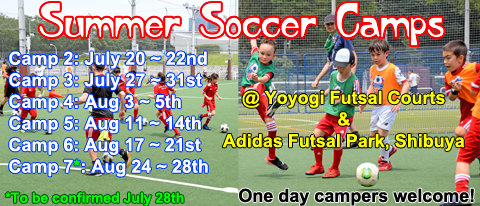
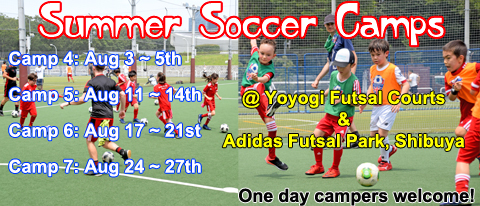
Final Camp
Confirmed

Changed region(s): [[0.0, 0.233, 0.4375, 0.8738], [0.0, 0.932, 0.4062, 1.0]]

diff --git a/j/pages/camp.html b/j/pages/camp.html
@@ -80,37 +80,37 @@
 													注：単日でのご参加も可能ですが、フルスケジュールでご参加のお子様を優先して受け付けさせて頂いております。<br>
 													<br>
 													お申込は：<a class="content" href="campreg.html"><b>SIGN UP ONLINE HERE</b></a></p>
-												<p><font color="#ff3300">注：キャンプ７については、会場が確定次第決定となります。（会場は１ヶ月前の予約受付の為、現時点では予定日程となります）</font><br>
-												</p>
 												<p><b>キャンプ 3: </b>7月27日 (月) − 7月31日（金）5日間 @ <b>代々木フットサル競技場　</b>(<a class="content" href="#map-Yoyogi">地図</a>)</p>
 												<ol>
-													<li>5〜8歳対象: 午前9:10 ~ 午後10：50 (100分間) BFAメンバー1日5,000 / BFAメンバー以外1日6,000<li>9〜12歳対象: 午前9:10 ~ 午後11：50 (2時40分間) BFAメンバー1日7,000 / BFAメンバー以外1日8,000
+													<li>5〜8歳対象: 午前9:10 ~ 午後10：50 (100分間) BFAメンバー1日5,000 / BFAメンバー以外1日6,000
+													<li>9〜12歳対象: 午前9:10 ~ 午後11：50 (2時40分間) BFAメンバー1日7,000 / BFAメンバー以外1日8,000
 												</ol>
 												<p><b>キャンプ 4: </b>8月３日 (月) − 8月５日（水）3日間 @ <b>アディダスフットサルパーク渋谷　</b>(<a class="content" href="#map-Adidas">地図</a>)</p>
 												<ol>
 													<li>9〜12歳対象: 午前10:00 ~ 午後12:00 (2時間) BFAメンバー1日7,000 / BFAメンバー以外1日8,000
-												
 												</ol>
 												<p><b>キャンプ 5: </b>8月11日 (火) − 8月14日（金）4日間<font color="#ff3300"> </font></p>
 												<ol>
-													<li>5〜8歳対象: 午前10:00 ~ 午後11：30 (90分間) @ <b>アディダスフットサルパーク渋谷　</b>(<a class="content" href="#map-Adidas">地図</a>) <br>
+													<li>5〜8歳対象: 午前10:00 ~ 午後11：30 (90分間) @ <b>アディダスフットサルパーク渋谷　</b>(<a class="content" href="#map-Adidas">地図</a>)<br>
 														BFAメンバー1日6,000 / BFAメンバー以外1日7,000
 													<li>9〜12歳対象: 午前09:00 ~ 午後12：00 (3時間)@ <b>代々木フットサル競技場　</b>(<a class="content" href="#map-Yoyogi">地図</a>)<br>
-														 BFAメンバー1日9,000 / BFAメンバー以外1日10,000
+														BFAメンバー1日9,000 / BFAメンバー以外1日10,000
 												</ol>
 												<p><b>キャンプ 6:</b></p>
 												<ol>
-													<li><b> </b>8月17日 (月) − 8月19日（水）3日間 <br>5〜8歳対象: 午前10:00 ~ 午後11：30 (90分間) @ <b>アディダスフットサルパーク渋谷　</b>(<a class="content" href="#map-Adidas">地図</a>)<br>
+													<li><b></b>8月17日 (月) − 8月19日（水）3日間<br>
+														5〜8歳対象: 午前10:00 ~ 午後11：30 (90分間) @ <b>アディダスフットサルパーク渋谷　</b>(<a class="content" href="#map-Adidas">地図</a>)<br>
 														BFAメンバー1日6,000 / BFAメンバー以外1日7,000<br>
 														<br>
-													
-													
-													<li>8月17日 (月) − 8月19日（水）及び 8月21日（金）4日間 <font color="#ff3300"> *20日 (木) は会場休館日の為、開催しません。</font><br>
-														
+													<li>8月17日 (月) − 8月19日（水）及び 8月21日（金）4日間 <font color="#ff3300">*20日 (木) は会場休館日の為、開催しません。</font><br>
 														9〜12歳対象: 午前09:00 ~ 午後12：00 (3時間) @ <b>代々木フットサル競技場　</b>(<a class="content" href="#map-Yoyogi">地図</a>)<br>
-														 BFAメンバー1日9,000 / BFAメンバー以外1日10,000
-													</ol>
-												<p><b>キャンプ 7: </b>8月24日 (月) − 8月28日（金）５日間 <font color="#ff3300">開催予定</font></p>
+														BFAメンバー1日9,000 / BFAメンバー以外1日10,000
+												</ol>
+												<p><b>キャンプ 7: </b>8月24日 (月) − 8月27日（木）4日間 @ <b>代々木フットサル競技場　</b>(<a class="content" href="#map-Yoyogi">地図</a>) </p>
+												<ol>
+													<li>5〜8歳対象: 午前09:00 ~ 午後11：00 (2時間) BFAメンバー1日7,000 / BFAメンバー以外1日8,000
+													<li>9〜12歳対象: 午前09:00 ~ 午後12：00 (3時間) BFAメンバー1日9,000 / BFAメンバー以外1日10,000 
+												</ol>
 												<p></p>
 												<p><img src="../../images/photos/CampVenues2020.jpg" alt="BST camp" height="389" width="648" border="0"></p>
 												<table width="100%" border="1" cellspacing="2" cellpadding="0" bgcolor="yellow">
@@ -146,8 +146,10 @@
 												<p><img src="../../images/photos/2020camp_cert.jpg" alt="lions" height="154" width="100" align="right" hspace="3"><b>ご参加にあたって </b></p>
 												<ul>
 													<li>サッカーがしやすいスポーツウェアを着用してください。
-													<li>サッカーブーツは、金属スパイクではないサッカーブーツまたは運動靴をご着用下さい。6歳から8歳のお子様は、運動靴でも大丈夫ですが、滑りにくいものが適しています。<li>スネあては必須です。
-													<li>雨天の場合も決行しますが、暴雨風・雷の場合は中止となり、参加費の返金はありませんので予めご了承ください。<li>飲料水又はスポーツドリンクを大目にご用意ください。
+													<li>サッカーブーツは、金属スパイクではないサッカーブーツまたは運動靴をご着用下さい。6歳から8歳のお子様は、運動靴でも大丈夫ですが、滑りにくいものが適しています。
+													<li>スネあては必須です。
+													<li>雨天の場合も決行しますが、暴雨風・雷の場合は中止となり、参加費の返金はありませんので予めご了承ください。
+													<li>飲料水又はスポーツドリンクを大目にご用意ください。
 												</ul>
 												<h4><b class="red">ご参加頂いた方には、キャンプ終了認定書を差し上げます。<br>
 													</b></h4>
@@ -166,7 +168,8 @@
 														注２： サマーキャンプセッションは、雷、暴風雨などの悪天候以外は、雨天決行となります。つきましては、悪天候によるセッションのキャンセル、および、お客様のご事情による欠席における料金の返金は致し兼ねますのでご了承の程お願い申し上げます。<br>
 														注３：キャンセルについて：次の場合は、キャンセル料を頂きます： キャンプ週開始日2日前までキャンセル：料金100％、キャンプ週開始日3日から7日前までのキャンセル：料金50％</span></p>
 												<p><a id="map-Yoyogi" name="map-Yoyogi"></a>
-													<iframe src="https://www.google.com/maps/embed?pb=!1m18!1m12!1m3!1d1620.6880936715058!2d139.6970804759195!3d35.667738095025086!2m3!1f0!2f0!3f0!3m2!1i1024!2i768!4f13.1!3m3!1m2!1s0x60188cae28002e85%3A0xa4ac94c5148ddc6d!2sYoyogi%20Park%20Futsal%20Court!5e0!3m2!1sen!2sjp!4v1593398672746!5m2!1sen!2sjp" width="640" height="510" frameborder="0" style="border:0;" allowfullscreen="" aria-hidden="false" tabindex="0"></iframe><br>
+													<iframe src="https://www.google.com/maps/embed?pb=!1m18!1m12!1m3!1d1620.6880936715058!2d139.6970804759195!3d35.667738095025086!2m3!1f0!2f0!3f0!3m2!1i1024!2i768!4f13.1!3m3!1m2!1s0x60188cae28002e85%3A0xa4ac94c5148ddc6d!2sYoyogi%20Park%20Futsal%20Court!5e0!3m2!1sen!2sjp!4v1593398672746!5m2!1sen!2sjp" width="640" height="510" frameborder="0" style="border:0;" allowfullscreen="" aria-hidden="false" tabindex="0"></iframe>
+													<br>
 													<br>
 													<br>
 													<a id="map-Adidas" name="map-Adidas"></a>

diff --git a/e/pages/camp.html b/e/pages/camp.html
@@ -86,7 +86,7 @@
 													</b>All 5-12 year olds are welcome to join our age-specific summer soccer camps at<b class="red"> </b><a class="content" href="https://www.jpnsport.go.jp/yoyogi/sisetu/tabid/222/Default.aspx" target="_blank">Yoyogi Futsal Courts</a><b class="red">.</b> Let our <b>English FA qualified, British coaches</b> enthral, entertain and educate your young ones with their wealth of knowledge and lively, energetic characters. We encourage participants to enrol for the full 3 to 5 action-packed-days of football games and fun, but <b class="red">do accept players on a per-day basis*</b>. All children will be presented with an <b>official BFA  certificate of achievement.</b><b class="red"><br>
 													</b><b><span class="highlight">REGISTER <a class="content" href="campreg.html">ON-LINE HERE</a></span></b><br>
 													<span>* <i>Please note that we will prioritise campers who sign up for the full camp, and accept per-day basis campers where spaces are available</i>.</span></p>
-												<p><b class="red"><span class="highlight">Please note, NOT ALL CAMPS ARE SAME LENGTH, TIME or VENUE &amp; some August camps are still pending confirmation by the venue.</span></b></p>
+												<p><b class="red"><span class="highlight">Please note, NOT ALL CAMPS ARE SAME LENGTH, TIME or VENUE.</span></b></p>
 												<p><b>Dates, Venues &amp; Prices per day:</b></p>
 												<p><b>CAMP 3:</b> July 27th (Mon) - 31st (Fri) - 5 day camp @ Yoyogi Futsal Courts (<a class="content" href="#map-Yoyogi">MAP</a>)<br>
 												</p>
@@ -119,13 +119,19 @@
 													
 													
 													<li>August 17th (Mon) - 19th (Wed) &amp; 21st (Fri) - <span class="highlight"><b>4 day camp (NO Thur 20th, venue closed)</b></span><br>
-														<b>Ages 9 ~ 12 (Academy &amp; Stars)</b>, Time: 9:00 am ~ 12:00 am (3 hours  @ Yoyogi Futsal Courts (<a class="content" href="#map-Yoyogi">MAP</a>)<br>
+														<b>Ages 9 ~ 12 (Academy &amp; Stars)</b>, Time: 9:00 am ~ 12:00 am (3 hours) @ Yoyogi Futsal Courts (<a class="content" href="#map-Yoyogi">MAP</a>)<br>
 														BFA Members: ¥9,000 <i class="navy">Non BFA Members</i>: ¥10,000<br>
 													
 												</ol>
-												<p><b>CAMP 7:</b> August 24th (Mon) - 28th (Fri) - 5 day camp <b class="red">- To be confirmed July 28th</b><br>
+												<p><b>CAMP 7:</b> August 24th (Mon) - 27th (Thur) - 4 day camp @ Yoyogi Futsal Courts (<a class="content" href="#map-Yoyogi">MAP</a>)<br>
 												</p>
-												
+												<ol>
+													<li><b>Ages 5 ~ 8 (Bulldogs &amp; Lions)</b>, Time: 9:00 am ~ 11:00 am (2 hours) BFA Members: ¥7,000 <i class="navy">Non BFA Members</i>: ¥8,000<br>
+													<li><b>Ages 9 ~ 12 (Academy &amp; Stars)</b>, Time: 9:00 am ~ 12:00 pm (3 hours) BFA Members: ¥9,000 <i class="navy">Non BFA Members</i>: ¥10,000<br>
+													
+												</ol>
+												<p><br>
+												</p>
 												<p><img src="../../images/photos/CampVenues2020.jpg" alt="Yoyogi Futsal" height="362" width="647" align="middle" border="0"></p>
 												<p><b class="red"><a class="content" href="venues.html"></a></b></p>
 												<table width="100%" border="1" cellspacing="2" cellpadding="0" bgcolor="yellow">

diff --git a/e/index.html b/e/index.html
@@ -128,8 +128,8 @@
 										</td>
 										<td class="c7" valign="top">
 											<h2 class="red">BRITISH FOOTBALL ACADEMY LATEST NEWS</h2>
-											<p><b class="blue">SUMMER SOCCER CAMPS<span class="highlight"> - More dates added</span></b></p>
-											<p>We now have 8 camps scheduled for this summer. The first 7 are confirmed with the last one to be confirmed on July 28th. These camps are proving to be very popularand filling up fast. Book your place early so you don't miss out. <a class="content" href="pages/camp.html">For more camp information CLICK HERE</a>.<br>
+											<p><b class="blue">SUMMER SOCCER CAMPS - ALL CAMPS NOW CONFIRMED</b></p>
+											<p>We have 8 camps scheduled for this summer. These camps are proving to be very popular and filling up fast. Book your place early so you don't miss out. For more camp information <a class="content" href="pages/camp.html">CLICK HERE</a>.<br>
 												<br>
 												<a href="pages/camp.html"><img src="../images/photos/2020camp-yoyogi.jpg" alt="" height="206" width="480" border="0"></a></p>
 											<hr align="left">
